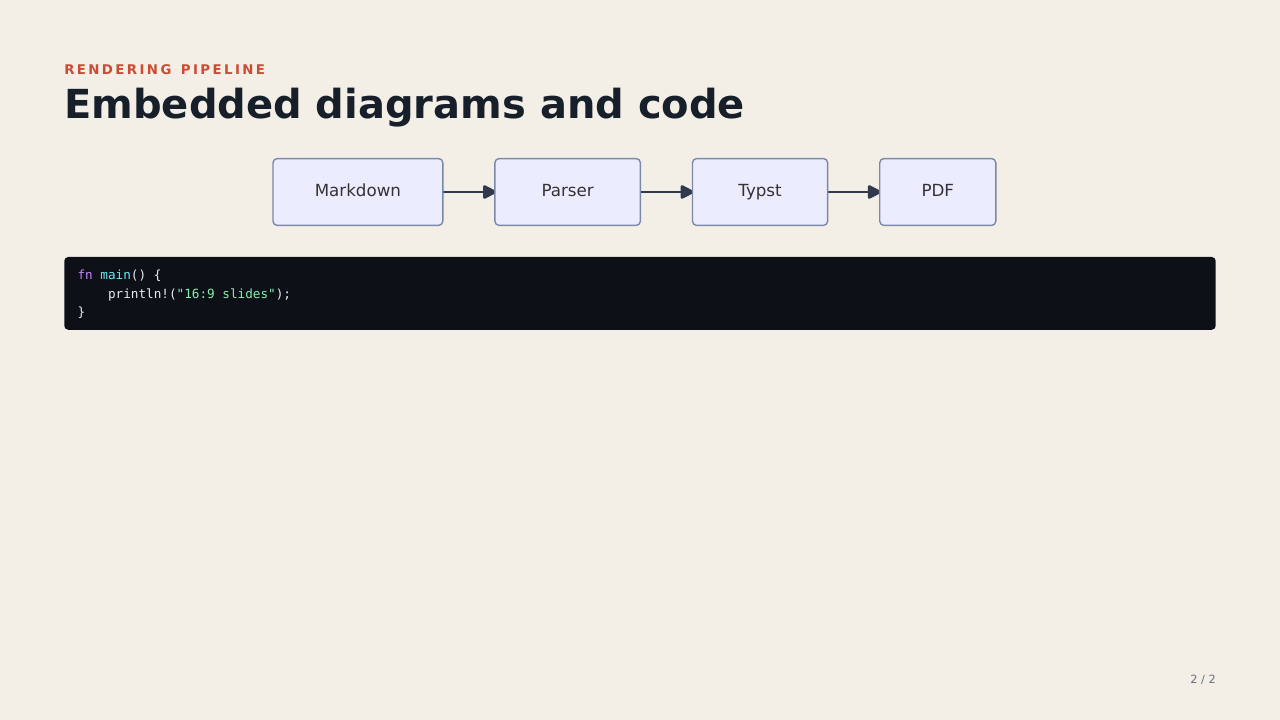
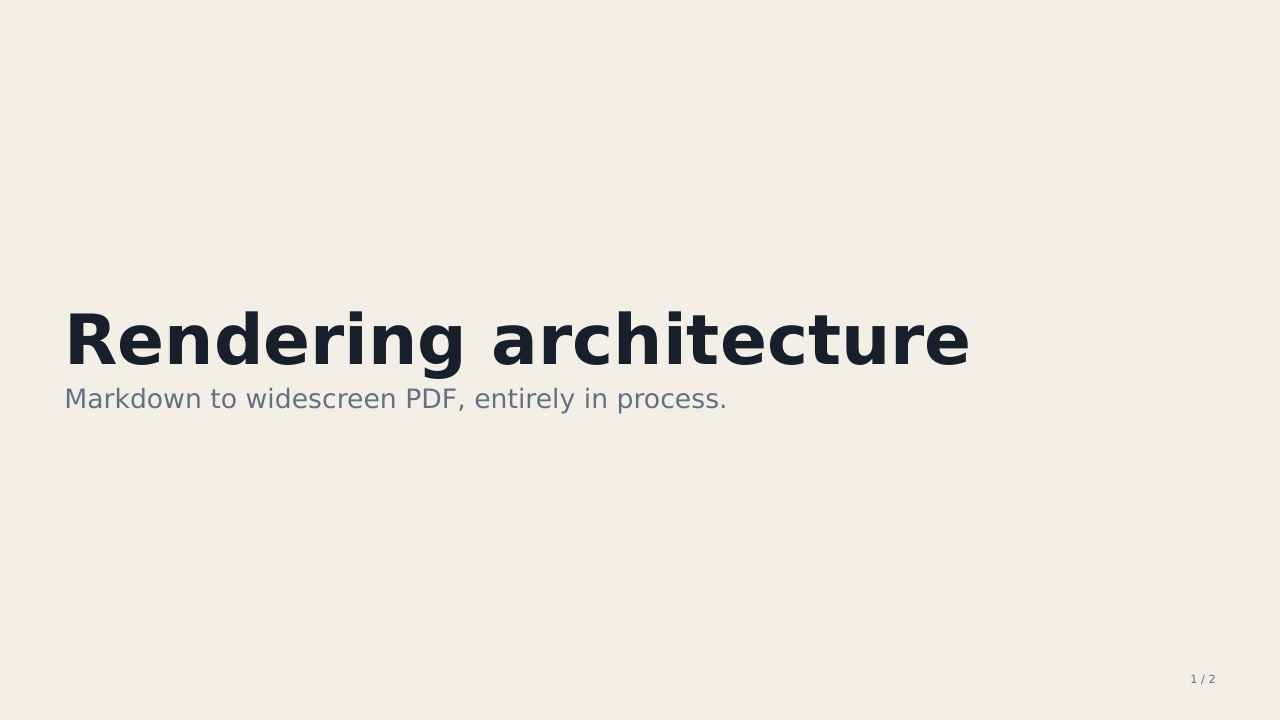
docs: use cover slide for preview

diff --git a/README.md b/README.md
@@ -112,7 +112,7 @@ Render it with:
 md2pdf technical-deck.md --slides --slide-template modern -o technical-deck.pdf
 ```
 
-![Generated technical slide with a Mermaid pipeline and highlighted Rust code](docs/assets/slides-technical-example.png)
+![Generated cover slide for the technical deck](docs/assets/slides-technical-example.png)
 
 Mermaid SVG canvases are transparent, so diagrams inherit the document page or
 slide-template background. In slide decks, wide pipelines scale up for room
